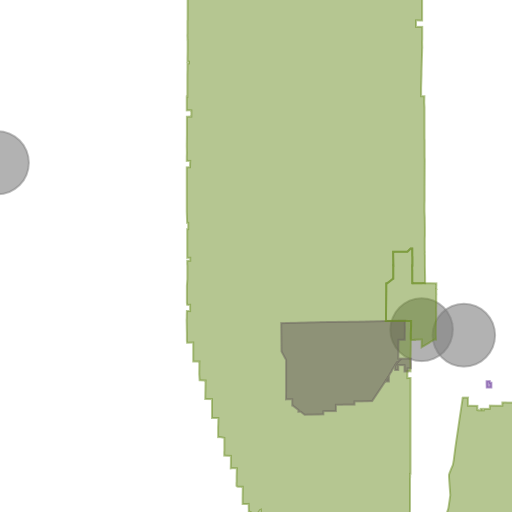
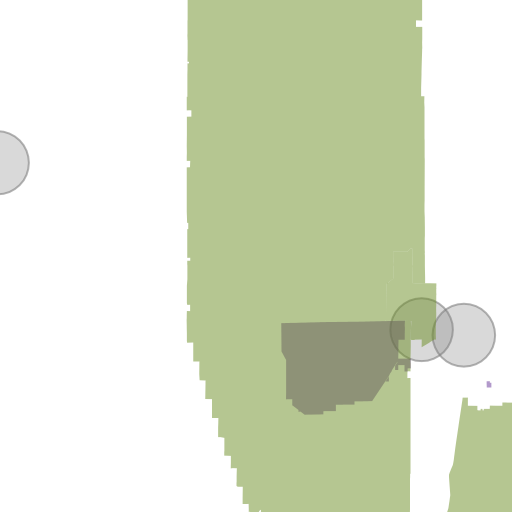
Updating Layers

diff --git a/js/index-dev.js b/js/index-dev.js
@@ -16,8 +16,8 @@ var southWest = L.latLng(8.538, -178.989),
 .addControl(L.mapbox.geocoderControl('mapbox.places'))
 .setView([40.044, -98.130], 5);
 
-var restricted = L.mapbox.tileLayer('scarndp.698e2446').addTo(map);
-var restrictedGrid = L.mapbox.gridLayer('scarndp.698e2446').addTo(map);
+var restricted = L.mapbox.tileLayer('scarndp.966872ea').addTo(map);
+var restrictedGrid = L.mapbox.gridLayer('scarndp.966872ea').addTo(map);
 var restrictedControl = L.mapbox.gridControl(restrictedGrid).addTo(map);
 restrictedControl.options.follow = true;
 
